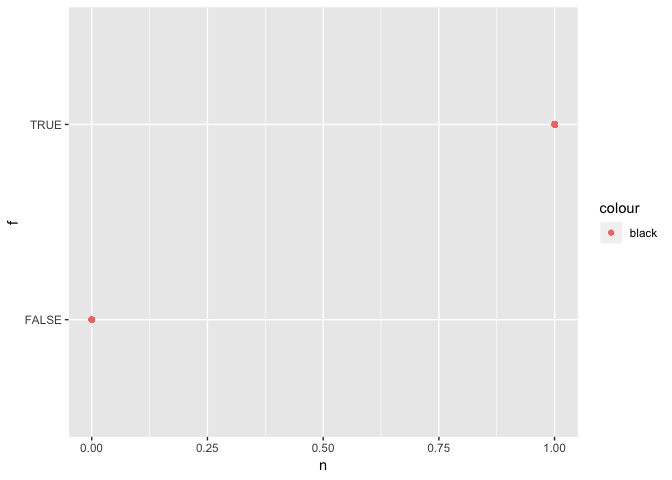
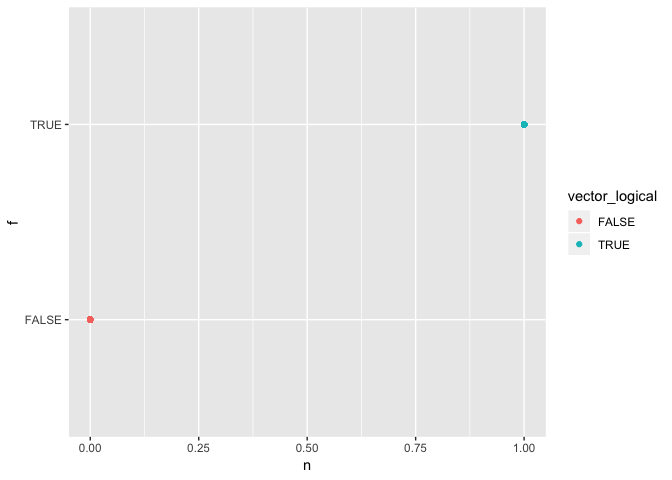
images added

diff --git a/p8105_hw1_hn2339.md b/p8105_hw1_hn2339.md
@@ -1,5 +1,7 @@
 p8105\_hw1\_hn2339
 ================
+Haowei Ni
+09/18/2018
 
 ``` r
 # random sample of size 10 from unifom distrubution [0,5]
@@ -8,15 +10,15 @@ sample_random = runif(10, min = 0, max = 5)
 sample_random
 ```
 
-    ##  [1] 2.3870908 0.6898794 1.2097447 0.7454354 2.7162721 0.6271307 0.8607303
-    ##  [8] 2.7553407 4.7675643 4.2299667
+    ##  [1] 4.8721580 3.0500531 1.6433588 3.8648165 4.5564985 3.3862164 0.5779884
+    ##  [8] 4.6880445 0.2394073 4.3069757
 
 ``` r
 # take the mean of the variable 
 mean(sample_random)
 ```
 
-    ## [1] 2.098916
+    ## [1] 3.118552
 
 ``` r
 # whether the elements from the sample > 2 
@@ -94,14 +96,14 @@ set.seed(1)
 library(tidyverse)
 ```
 
-    ## ─ Attaching packages ─────────────── tidyverse 1.2.1 ─
+    ## ─ Attaching packages ───────────────── tidyverse 1.2.1 ─
 
     ## ✔ ggplot2 3.0.0     ✔ purrr   0.2.5
     ## ✔ tibble  1.4.2     ✔ dplyr   0.7.6
     ## ✔ tidyr   0.8.1     ✔ stringr 1.3.1
     ## ✔ readr   1.1.1     ✔ forcats 0.3.0
 
-    ## ─ Conflicts ──────────────── tidyverse_conflicts() ─
+    ## ─ Conflicts ────────────────── tidyverse_conflicts() ─
     ## ✖ dplyr::filter() masks stats::filter()
     ## ✖ dplyr::lag()    masks stats::lag()
 
@@ -115,8 +117,9 @@ plot_df = tibble(
   mean(x),
   n = as.numeric(vector_logical),
   f = as.factor(vector_logical)
-)
-ggplot(plot_df, aes(x = x, y = y, col = "red" )) + geom_point()
+) 
+  
+ggplot(plot_df, aes(x = x, y = y, color = vector_logical )) + geom_point()
 ```
 
 ![](p8105_hw1_hn2339_files/figure-markdown_github/HW1_Question2-1.png)
@@ -128,13 +131,13 @@ ggsave("plot_df.pdf")
     ## Saving 7 x 5 in image
 
 ``` r
-ggplot(plot_df, aes(x = n, y = f, col = "black" )) + geom_point()
+ggplot(plot_df, aes(x = n, y = f, col = vector_logical )) + geom_point()
 ```
 
 ![](p8105_hw1_hn2339_files/figure-markdown_github/HW1_Question2-2.png)
 
 ``` r
-ggplot(plot_df, aes(x = f, y = n, col = "blue" )) + geom_point()
+ggplot(plot_df, aes(x = f, y = n, col = vector_logical )) + geom_point()
 ```
 
-![](p8105_hw1_hn2339_files/figure-markdown_github/HW1_Question2-3.png)
+![](p8105_hw1_hn2339_files/figure-markdown_github/HW1_Question2-3.png) \#The size of plot\_df is , the mean of x is -0.0116481, the median of x is -0.0353242, 49% of the logical vector is true 0.49
